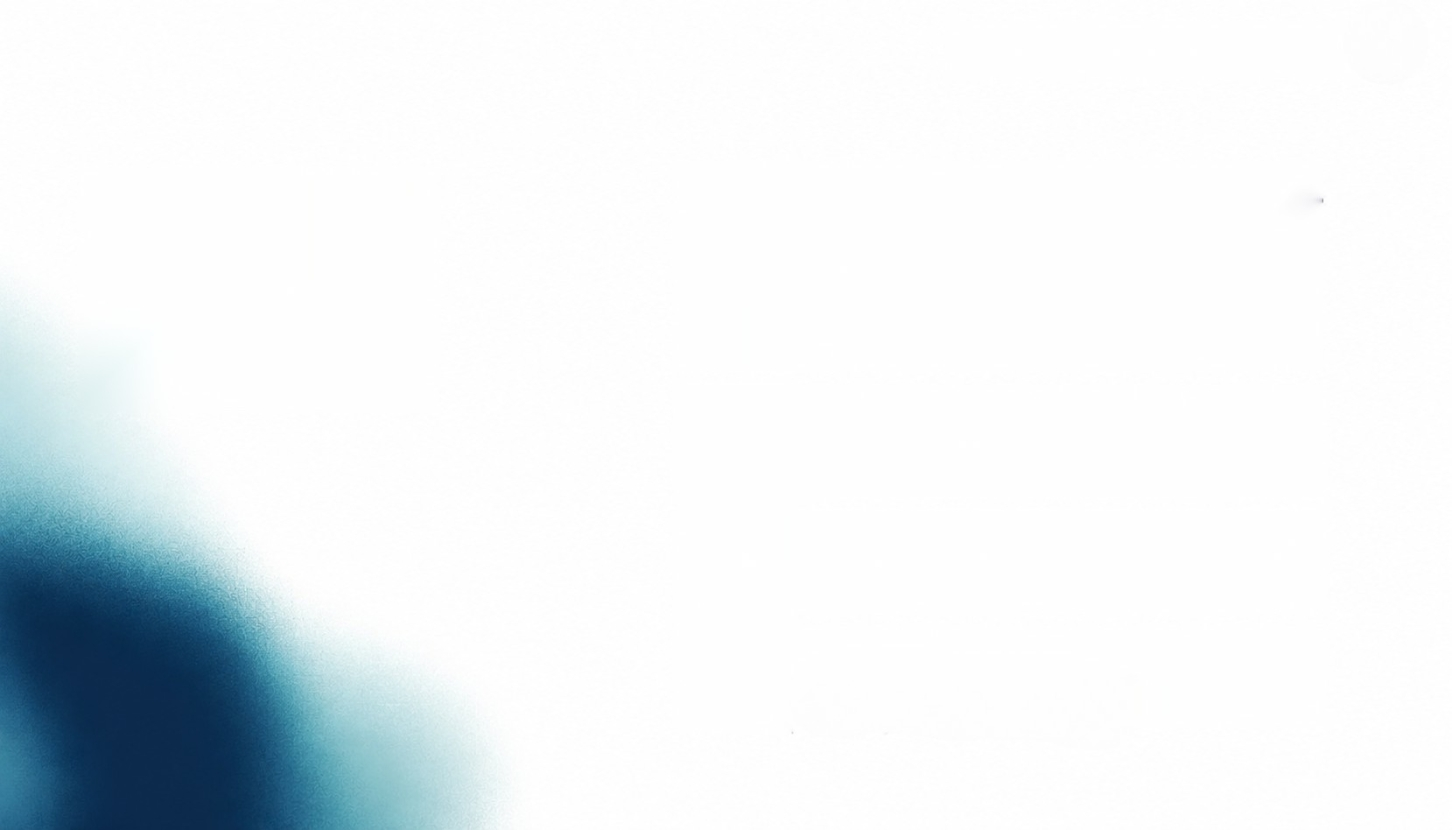
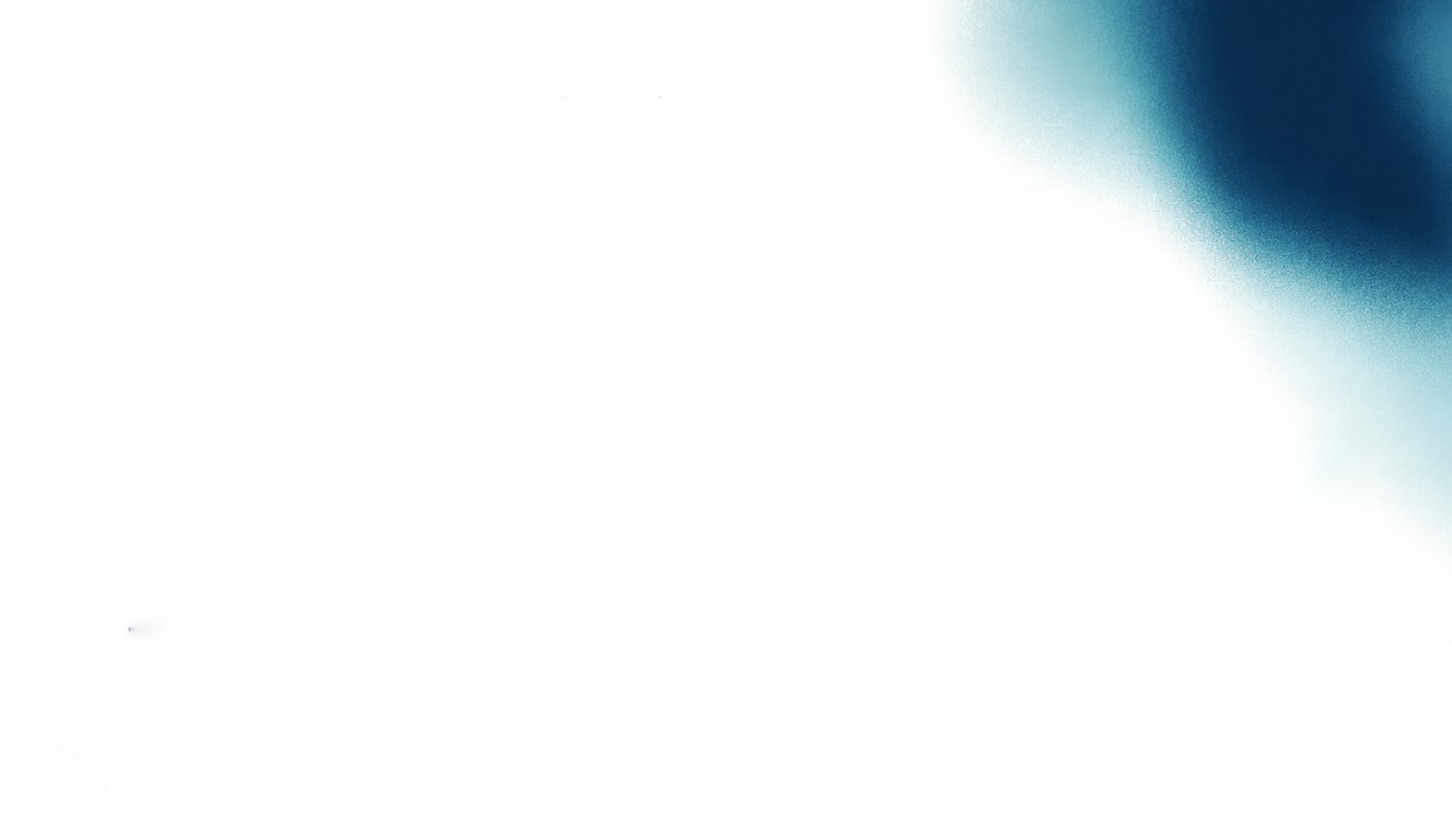
Finish the RESPONSIVE web

Changed region(s): [[0.6508, 0.0, 1.0, 0.6325], [0.0, 0.3614, 0.3409, 1.0]]

diff --git a/style.css b/style.css
@@ -35,6 +35,7 @@ html{
     align-items: center;                   /* align the nav items in the center */
     list-style: none;                      /* remove the point list */
     margin-right: 30px;                    /* add some margin to the right of the nav items */
+    flex-wrap: wrap;
 }
 
 .nav-list a{
@@ -58,130 +59,132 @@ html{
     margin: 0;
     background-repeat: no-repeat;
     background-size: cover;
+    display: flex;
+    flex-direction: column;
     
 }
 
 .main h1{
     color: #FFFF;
-    font-size: 150px;
+    font-size: clamp(3rem, 8vw, 9.375rem);
     text-align: left;
     padding-top: 5vh; 
     padding-left: 60px;
     line-height: 1.1;
-    display: flex;
+    margin: 0;
 }
 
-.main h2{
-    color: #FFFF;
-    font-size: 30px;
-    text-align: right;
-    padding-top: 22vh; 
+.main-subtitle{
+    margin-top: auto;       
+    padding-bottom: 4vh;      
     padding-right: 30px;
+    text-align: right;
 }
 
-.main p{
-    color: #FFFF;
-    font-size: 25px;
-    text-align: right;
-    padding-right: 30px;
+.main-subtitle h2{
+    color: #FFF;
+    font-size: clamp(1.5rem, 2.5vw, 2rem);
+    margin: 0;
+}
+
+.main-subtitle p{
+    color: #FFF;
+    font-size: clamp(1.1rem, 1.6vw, 1.5rem);
+    margin: 0;
 }
 
 
 /* ______________________________________________ ABOUT ME STYLES _________________________________________________________ */
 
 .about{
-    background-image: url("Images/backgound\ about.jpg");
+    background-image: url("Images/backgound about.jpg");
     background-repeat: no-repeat;
     background-size: cover;
     height: calc(100vh - 80px);
     width: 100%;
     margin: 0;
-    padding-left: 10%;
-    padding-right: 10%;
-    padding-top: 80px;
-    padding-bottom: 80px;
+    padding: 80px 10%;
 
     display: flex;
+    align-items: center;      
     justify-content: space-between;
+    gap: 5%;
 }
 
-.about div{
+.about-text{
     width: 50%;
-    padding-right: 40px;
+    display: flex;
+    flex-direction: column;
 }
 
-.about img{
-    max-width: 100%;
-    width: 400px;
-    height: 400px;
-    object-fit: cover;
-    border-radius: 50%;
-}
-
-.about div h3{
-    font-size: 50px;
+.about-text h3{
+    font-size: clamp(1.8rem, 3vw, 3.5rem);
     margin-bottom: 20px;
 }
 
-.about p{
-    max-width: 100%;
-    
+.about-text p{
+    font-size: clamp(1.5rem, 1.3vw, 1.375rem);
+    margin-bottom: 4vh;       
+}
+
+.github-link{
+    display: flex;
+    align-items: center;
+    align-self: flex-end;
 }
 
 .about .github{
-    width: 80px;
+    width: clamp(50px, 6vw, 80px);   
     height: auto;
     transition: transform 0.3s ease-in-out;
 }
 
-.github-link {
-    display: flex;
-    align-items:end;
-    gap: 8px;
-    margin-right: 10%;
-}
-
 .about .github:hover{
-    transform: scale(1.2); 
+    transform: scale(1.2);
 }
 
+.about-photo{
+    width: clamp(375px, 37vw, 600px);
+    height: clamp(375px, 37vw, 600px);
+    object-fit: cover;
+    border-radius: 50%;
+    flex-shrink: 0;    
+}
 
 /* ______________________________________________ PROJECTS STYLES _________________________________________________________ */
 
 
 .projects{
     background-image: url("Images/backgound-projects.png");
-    height: calc(100vh - 80px);
-    margin: 0;
     background-repeat: no-repeat;
     background-size: cover;
-
+    min-height: calc(100vh - 80px);  /* min-height em vez de height fixo, pra poder crescer */
+    margin: 0;
     width: 100%;
     display: flex;
     flex-direction: column;
     align-items: center;
-    justify-content: center;
-    padding-top: 20px;
-    padding-bottom: 80px;
+    padding: 40px 5% 80px;
 }
 
 .projects h2{
-    font-size: 50px;
+    font-size: clamp(2rem, 4vw, 3.125rem);
     margin-bottom: 60px;
     color: #2E718B;
 }
 
 .project-list{
-    display: flex;
-    justify-content:center;
-    gap: 20px;
-    padding: 10px;
+    display: grid;
+    grid-template-columns: repeat(auto-fit, minmax(250px, 1fr));
+    gap: 24px;
     width: 100%;
-    height: 60%;
-    margin-bottom: 8px;
+    max-width: 1400px;   /* evita que as imagens estiquem demais em telas muito largas */
 }
 
 .projects img{
+    width: 100%;
+    aspect-ratio: 4 / 3;      /* mantém proporção consistente entre elas */
+    object-fit: cover;
     opacity: 0.8;
     border-radius: 10%;
     transition: 0.7s;
@@ -189,4 +192,70 @@ html{
 
 .projects img:hover{
     opacity: 1;
+}
+
+/* ______________________________________________ RESPONSIVE WEB _________________________________________________________ */
+
+@media (max-width: 1317px){
+    .main h1 {
+        font-size:clamp(3rem, 8vw, 6rem);
+    }
+
+    .about{
+        flex-direction: column;
+        padding-top: 40px;
+        padding-left: 0;
+        padding-right: 0;
+        padding-bottom: 0;
+        padding: 20px 10%;
+    }
+
+    .about-text{
+        width: 90%;
+    }
+
+    .about-text h3{
+        font-size: clamp(2rem, 3vw, 3.5rem);
+    }
+
+    .about-text p{
+        font-size: clamp(1rem, 1.3vw, 1.375rem);
+    }
+
+    .about-photo{
+        width: clamp(300px, 30vw, 450px);
+        height: clamp(300px, 30vw, 450px);
+        margin-top: -60px;
+    }
+
+    .github-link{
+        align-self:center;
+    }
+
+}
+
+@media (max-width: 480px){
+    .nav{
+        justify-content: center;
+    }
+
+    .nav-list{
+        margin-right: 0;
+    }
+
+    .nav-list a{
+        padding: 10px;
+        font-size: 0.9rem;
+    }
+
+    .main h1{
+        font-size: clamp(6rem, 10vw, 7rem);
+        padding-left: 20px;
+    }
+
+    .about-photo{
+        width: clamp(220px, 60vw, 300px);
+        height: clamp(220px, 60vw, 300px);
+        margin-top: 0;
+    }
 }

diff --git a/index.html b/index.html
@@ -22,27 +22,26 @@
         </ul>
     </nav>
 
-    <section id = "home" class="main">
-        <div>
-            <h1>Pedro <br> Garcia</h1>
+    <section id="home" class="main">
+        <h1>Pedro <br> Garcia</h1>
 
+        <div class="main-subtitle">
             <h2>Desenvolvedor</h2>
             <p>Estudante de ciência da computação</p>
-
         </div>
     </section>
 
-    <section id= "about-me" class="about">
-        <div>
+    <section id="about-me" class="about">
+        <div class="about-text">
             <h3>Sobre mim</h3>
             <p>Sou um estudante apaixonado por tecnologia e por criar soluções que fazem a diferença. gosto de transformar ideias em código e estou sempre em busca de aprender algo novo e evoluir como desenvolvedor. <br><br> Atualmente estou cursando ciência da computação da Universidade católica de Pernambuco (UNICAP) e estou em busca de oportunidades para aplicar meu conhecimento e contribuir para projetos significativos.</p>
+
+            <a href="https://github.com/pedrogarciia" target="_blank" class="github-link">
+                <img class="github" src="Images/github-logo.png" alt="GitHub">
+            </a>
         </div>
 
-        <a href ="https://github.com/pedrogarciia" target="_blank" class = "github-link"> 
-            <img class = "github" src = "Images/github-logo.png">  </a>
-        
-        <img src = "Images/Peu-2.jpg" alt = "Pedro Garcia">
-
+        <img class="about-photo" src="Images/Peu-2.jpg" alt="Pedro Garcia">
     </section>
 
     <section id= "project" class="projects">
@@ -54,10 +53,8 @@
             <img src = "Images/projeto.jpg">
             <img src = "Images/projeto.jpg">
         </div>
+    </section>
 
-
-    
-    
 </body>
 
 </html>
